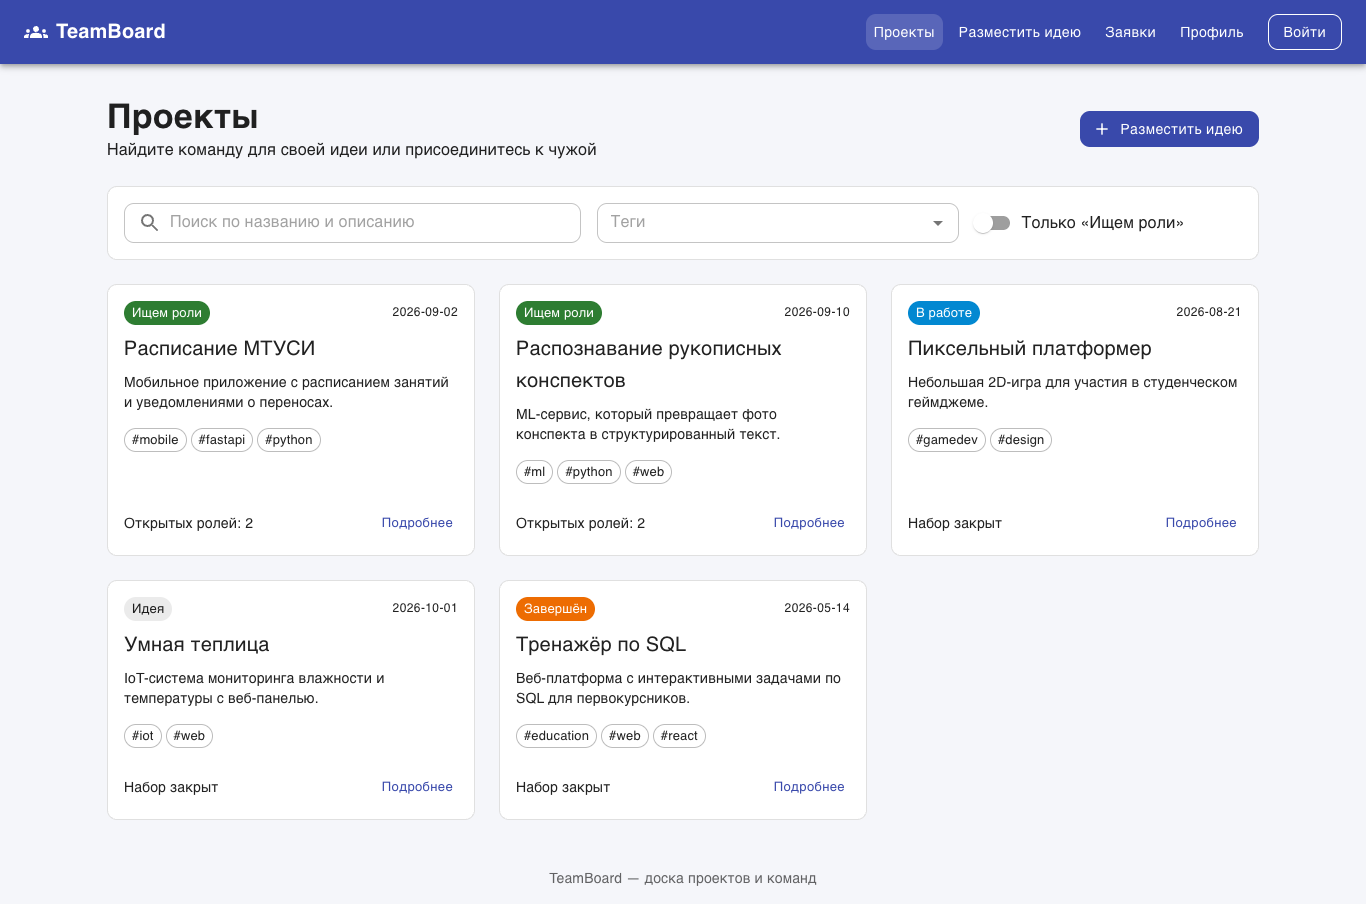
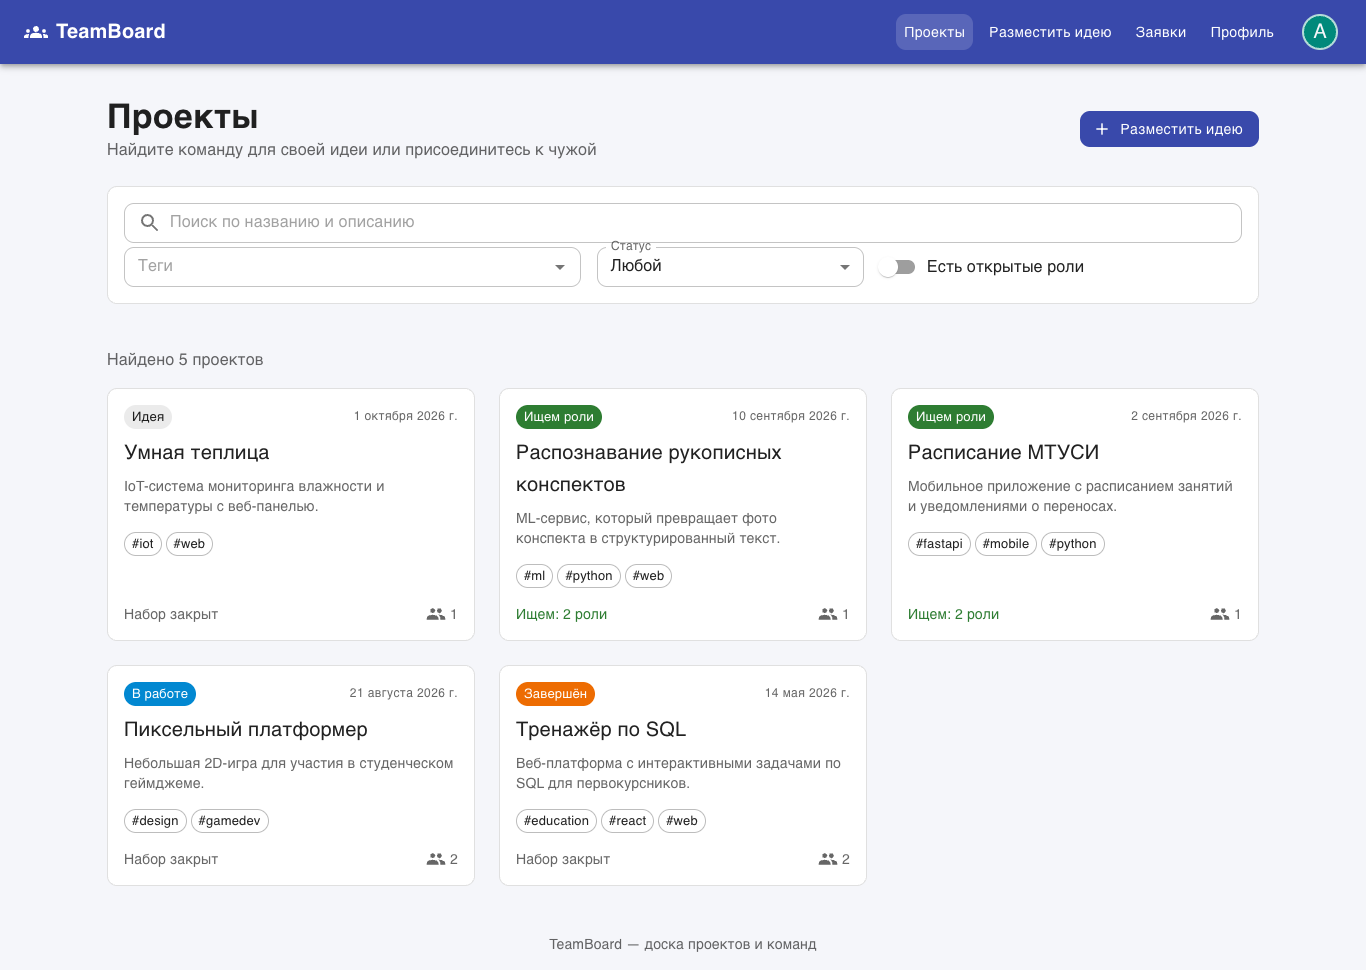
README: архитектура frontend и изменения интерфейса; обновлены скриншоты

diff --git a/README.md b/README.md
@@ -42,7 +42,8 @@
 
 ## Стек
 
-- **Frontend:** React 19, TypeScript, Vite, React Router, MUI (Material UI) — библиотека UI-компонентов.
+- **Frontend:** React 19, TypeScript, Vite, React Router, MUI (Material UI) — библиотека UI-компонентов,
+  TanStack Query — загрузка и кэширование данных, React Hook Form + Zod — формы и клиентская валидация.
 - **Backend:** Python 3.11, FastAPI, SQLAlchemy 2, Alembic, Pydantic.
 - **База данных:** PostgreSQL 14+.
 
@@ -62,6 +63,48 @@ backend/               серверная часть (FastAPI)
 frontend/              клиентская часть (React + TypeScript)
 docs/screenshots/      скриншоты экранов
 ```
+
+## Архитектура frontend
+
+Код организован по упрощённой схеме Feature-Sliced Design. Слои импортируют только нижележащие слои
+(`app → pages → features → entities → shared`), каждый модуль экспортирует публичный API через `index.ts`.
+
+```
+frontend/src/
+  app/                 настройка приложения: провайдеры, тема MUI, маршрутизация, общий макет, защита маршрутов
+  pages/               страницы, собранные из фич и сущностей
+    projects/            каталог проектов
+    project-details/     страница проекта (роли, команда, подача заявки)
+    project-edit/        создание и редактирование проекта
+    applications/        мои и входящие заявки
+    profile/             профиль пользователя
+    auth/                вход и регистрация
+    not-found/           страница 404
+  features/            пользовательские действия
+    project-filters/     поиск, фильтр по тегам и статусу (состояние хранится в URL)
+    project-form/        форма проекта с динамическим списком ролей
+    apply-to-project/    диалог подачи заявки
+    application-actions/ принятие, отклонение и отзыв заявки
+    delete-project/      удаление проекта с подтверждением
+    auth/                формы входа и регистрации
+    edit-profile/        редактирование профиля
+  entities/            сущности предметной области: типы, запросы к API, хуки данных, UI-карточки
+    project/ application/ user/ tag/ session/
+  shared/              переиспользуемый код без знания о предметной области
+    api/                 HTTP-клиент, формат ошибок API
+    ui/                  состояния загрузки/ошибки/пустого списка, диалог подтверждения, уведомления, анимации
+    lib/                 форматирование дат, склонения, перенос серверных ошибок в форму
+```
+
+Интерактивность и состояния интерфейса:
+
+- формы проверяются на клиенте (Zod) до отправки, ошибки показываются под полями; ошибки сервера
+  с привязкой к полю переносятся в форму;
+- у экранов с данными есть состояния загрузки (скелетоны, индикатор), ошибки (с кнопкой «Повторить»)
+  и отсутствия данных;
+- после изменения данных кэш TanStack Query инвалидируется, и списки обновляются без перезагрузки страницы;
+- анимации: плавное появление страниц и карточек, раскрытие панели фильтров на мобильных, добавление
+  и удаление ролей в форме, исчезновение отозванной заявки, всплывающие уведомления, выезжающие диалоги.
 
 ## Модель данных
 
@@ -185,4 +228,14 @@ npm run dev
 npm run build
 ```
 
-На этом этапе экраны работают на демонстрационных данных из `frontend/src/data/mock.ts`.
+На этом этапе экраны работают на демонстрационных данных: запросы обрабатывает имитация API
+в `frontend/src/shared/api/mock` (с задержкой ответа, чтобы были видны состояния загрузки).
+Демо-пользователь: `asadilov@example.com` / `password1`.
+
+## История изменений интерфейса
+
+- **ЛР 3.** Frontend переведён на структуру FSD. Карточка проекта целиком стала ссылкой, счётчик ролей
+  дополнен числом участников. Фильтры каталога сохраняются в адресной строке и сворачиваются на мобильных,
+  добавлены фильтр по статусу и постраничный вывод. В форме проекта роли добавляются и удаляются динамически,
+  на странице проекта появились кнопки «Откликнуться» у каждой открытой роли и удаление проекта.
+  В шапке вместо кнопки «Войти» после входа отображается меню пользователя. Скриншоты обновлены.
